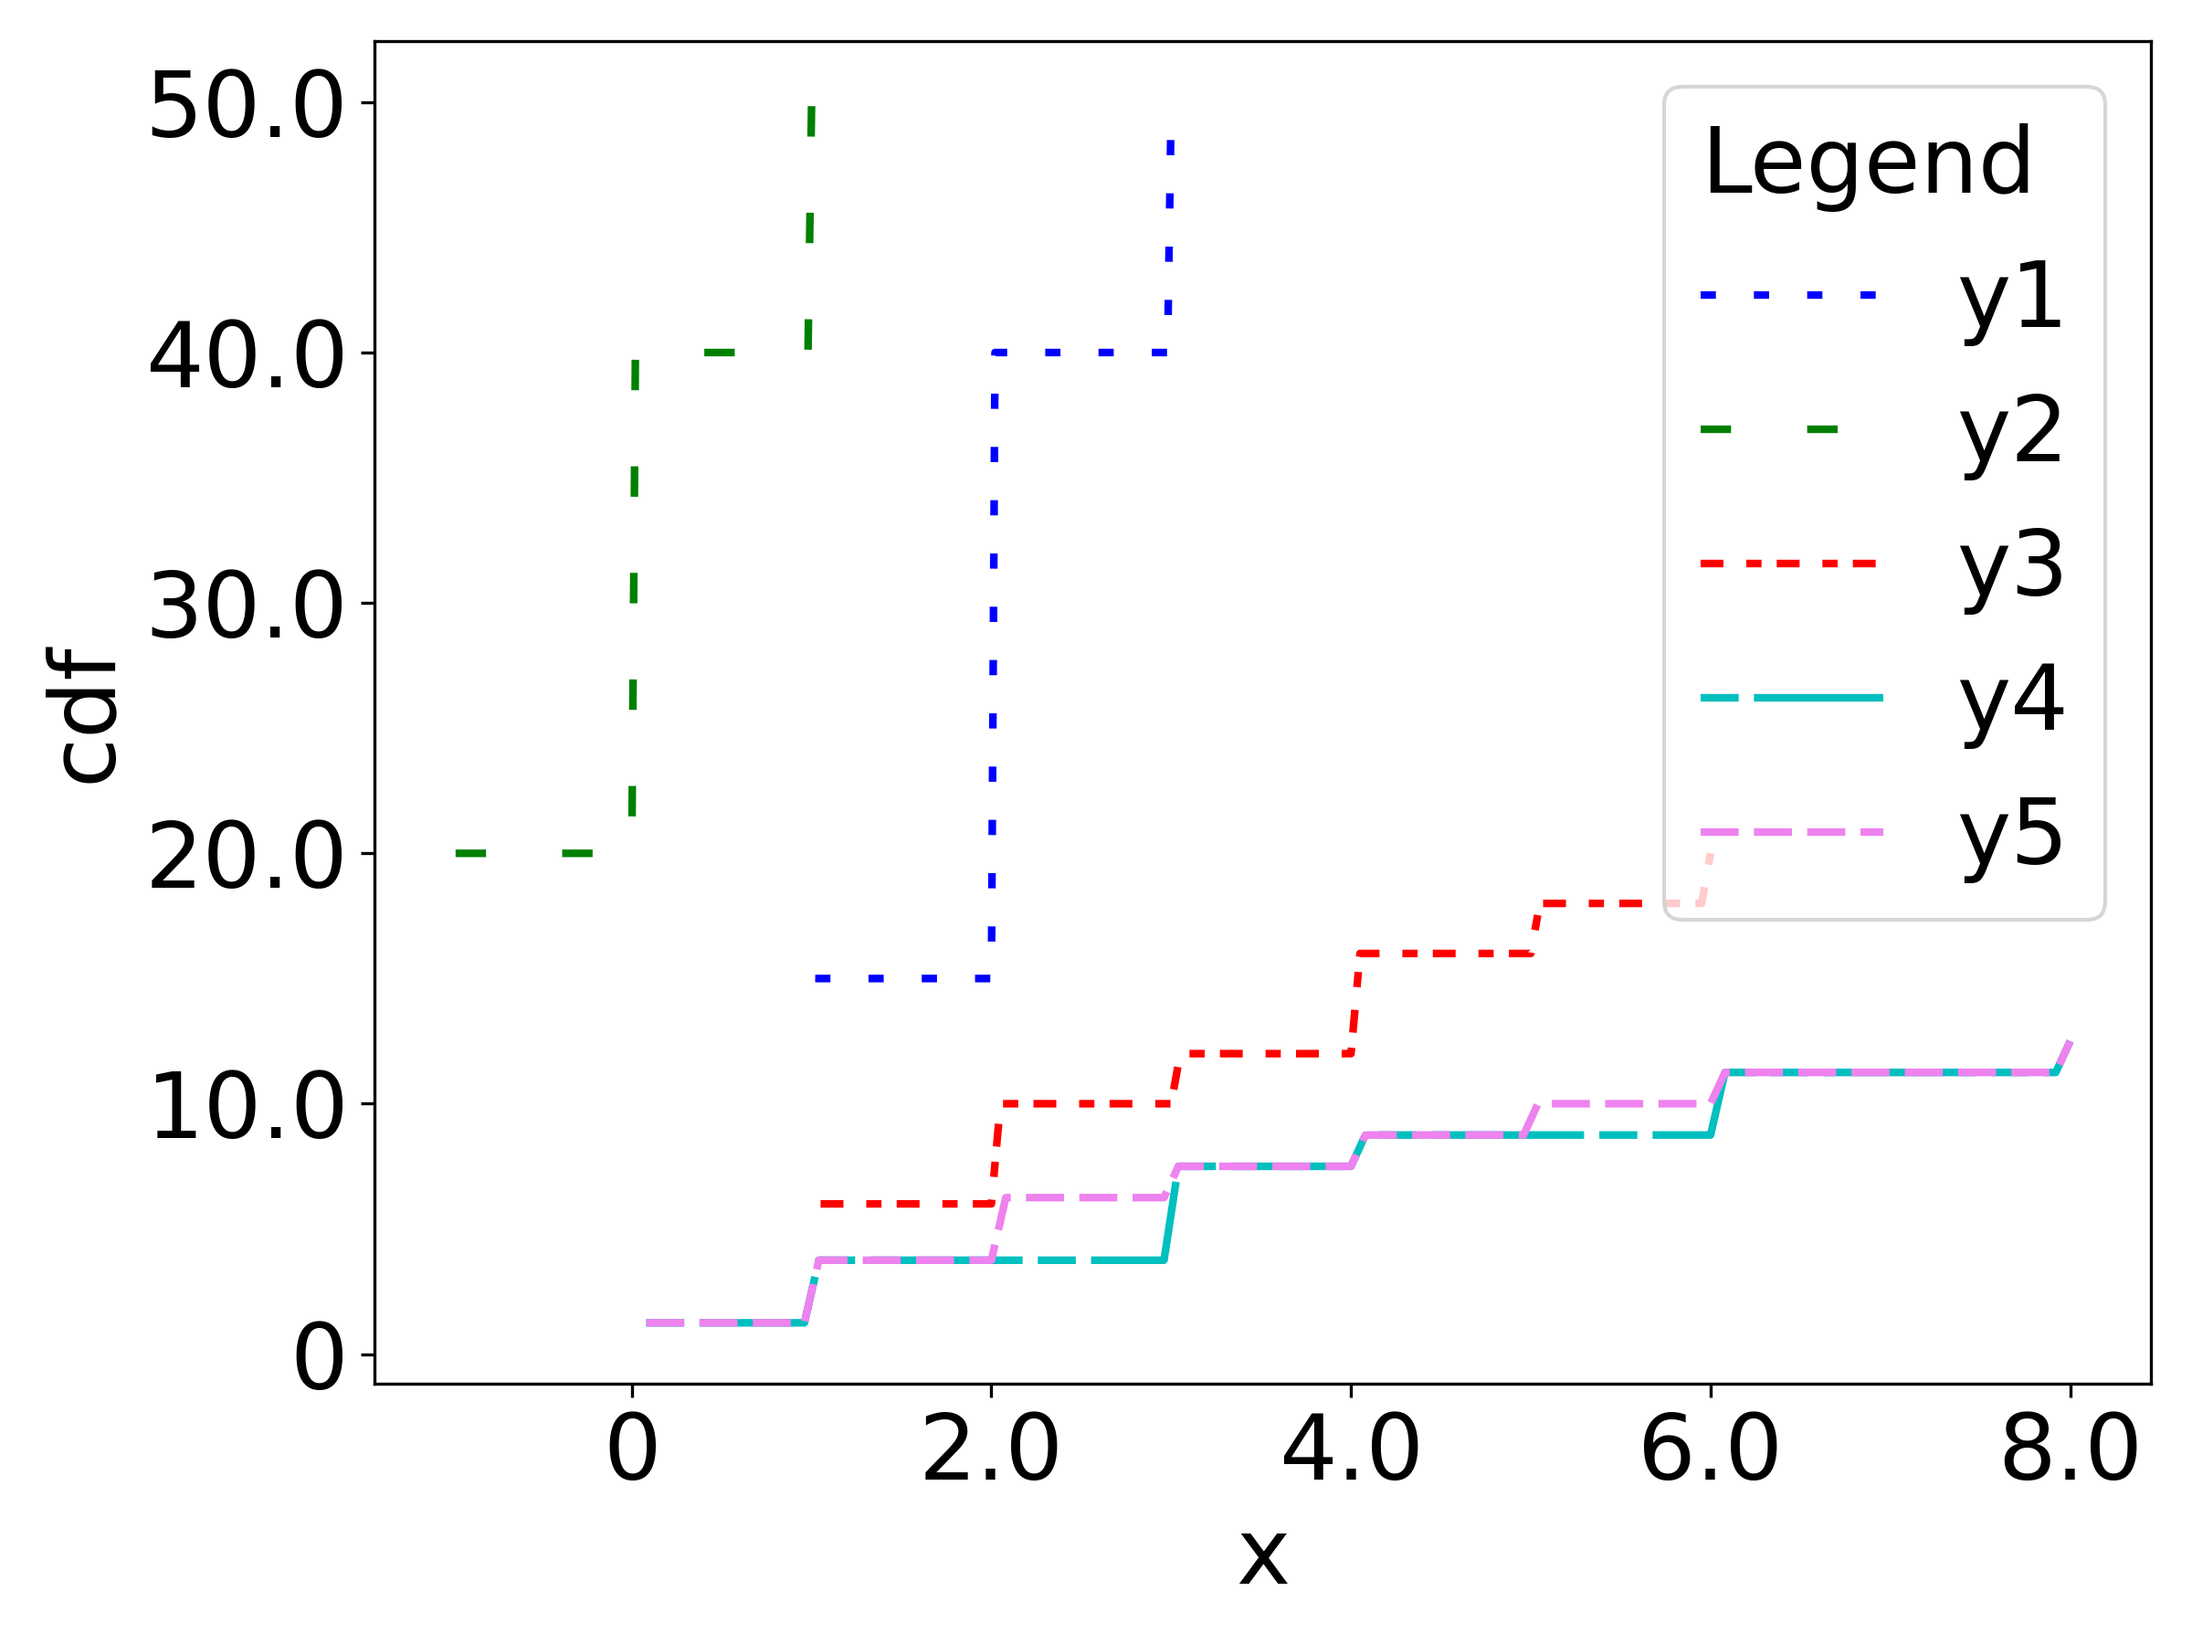
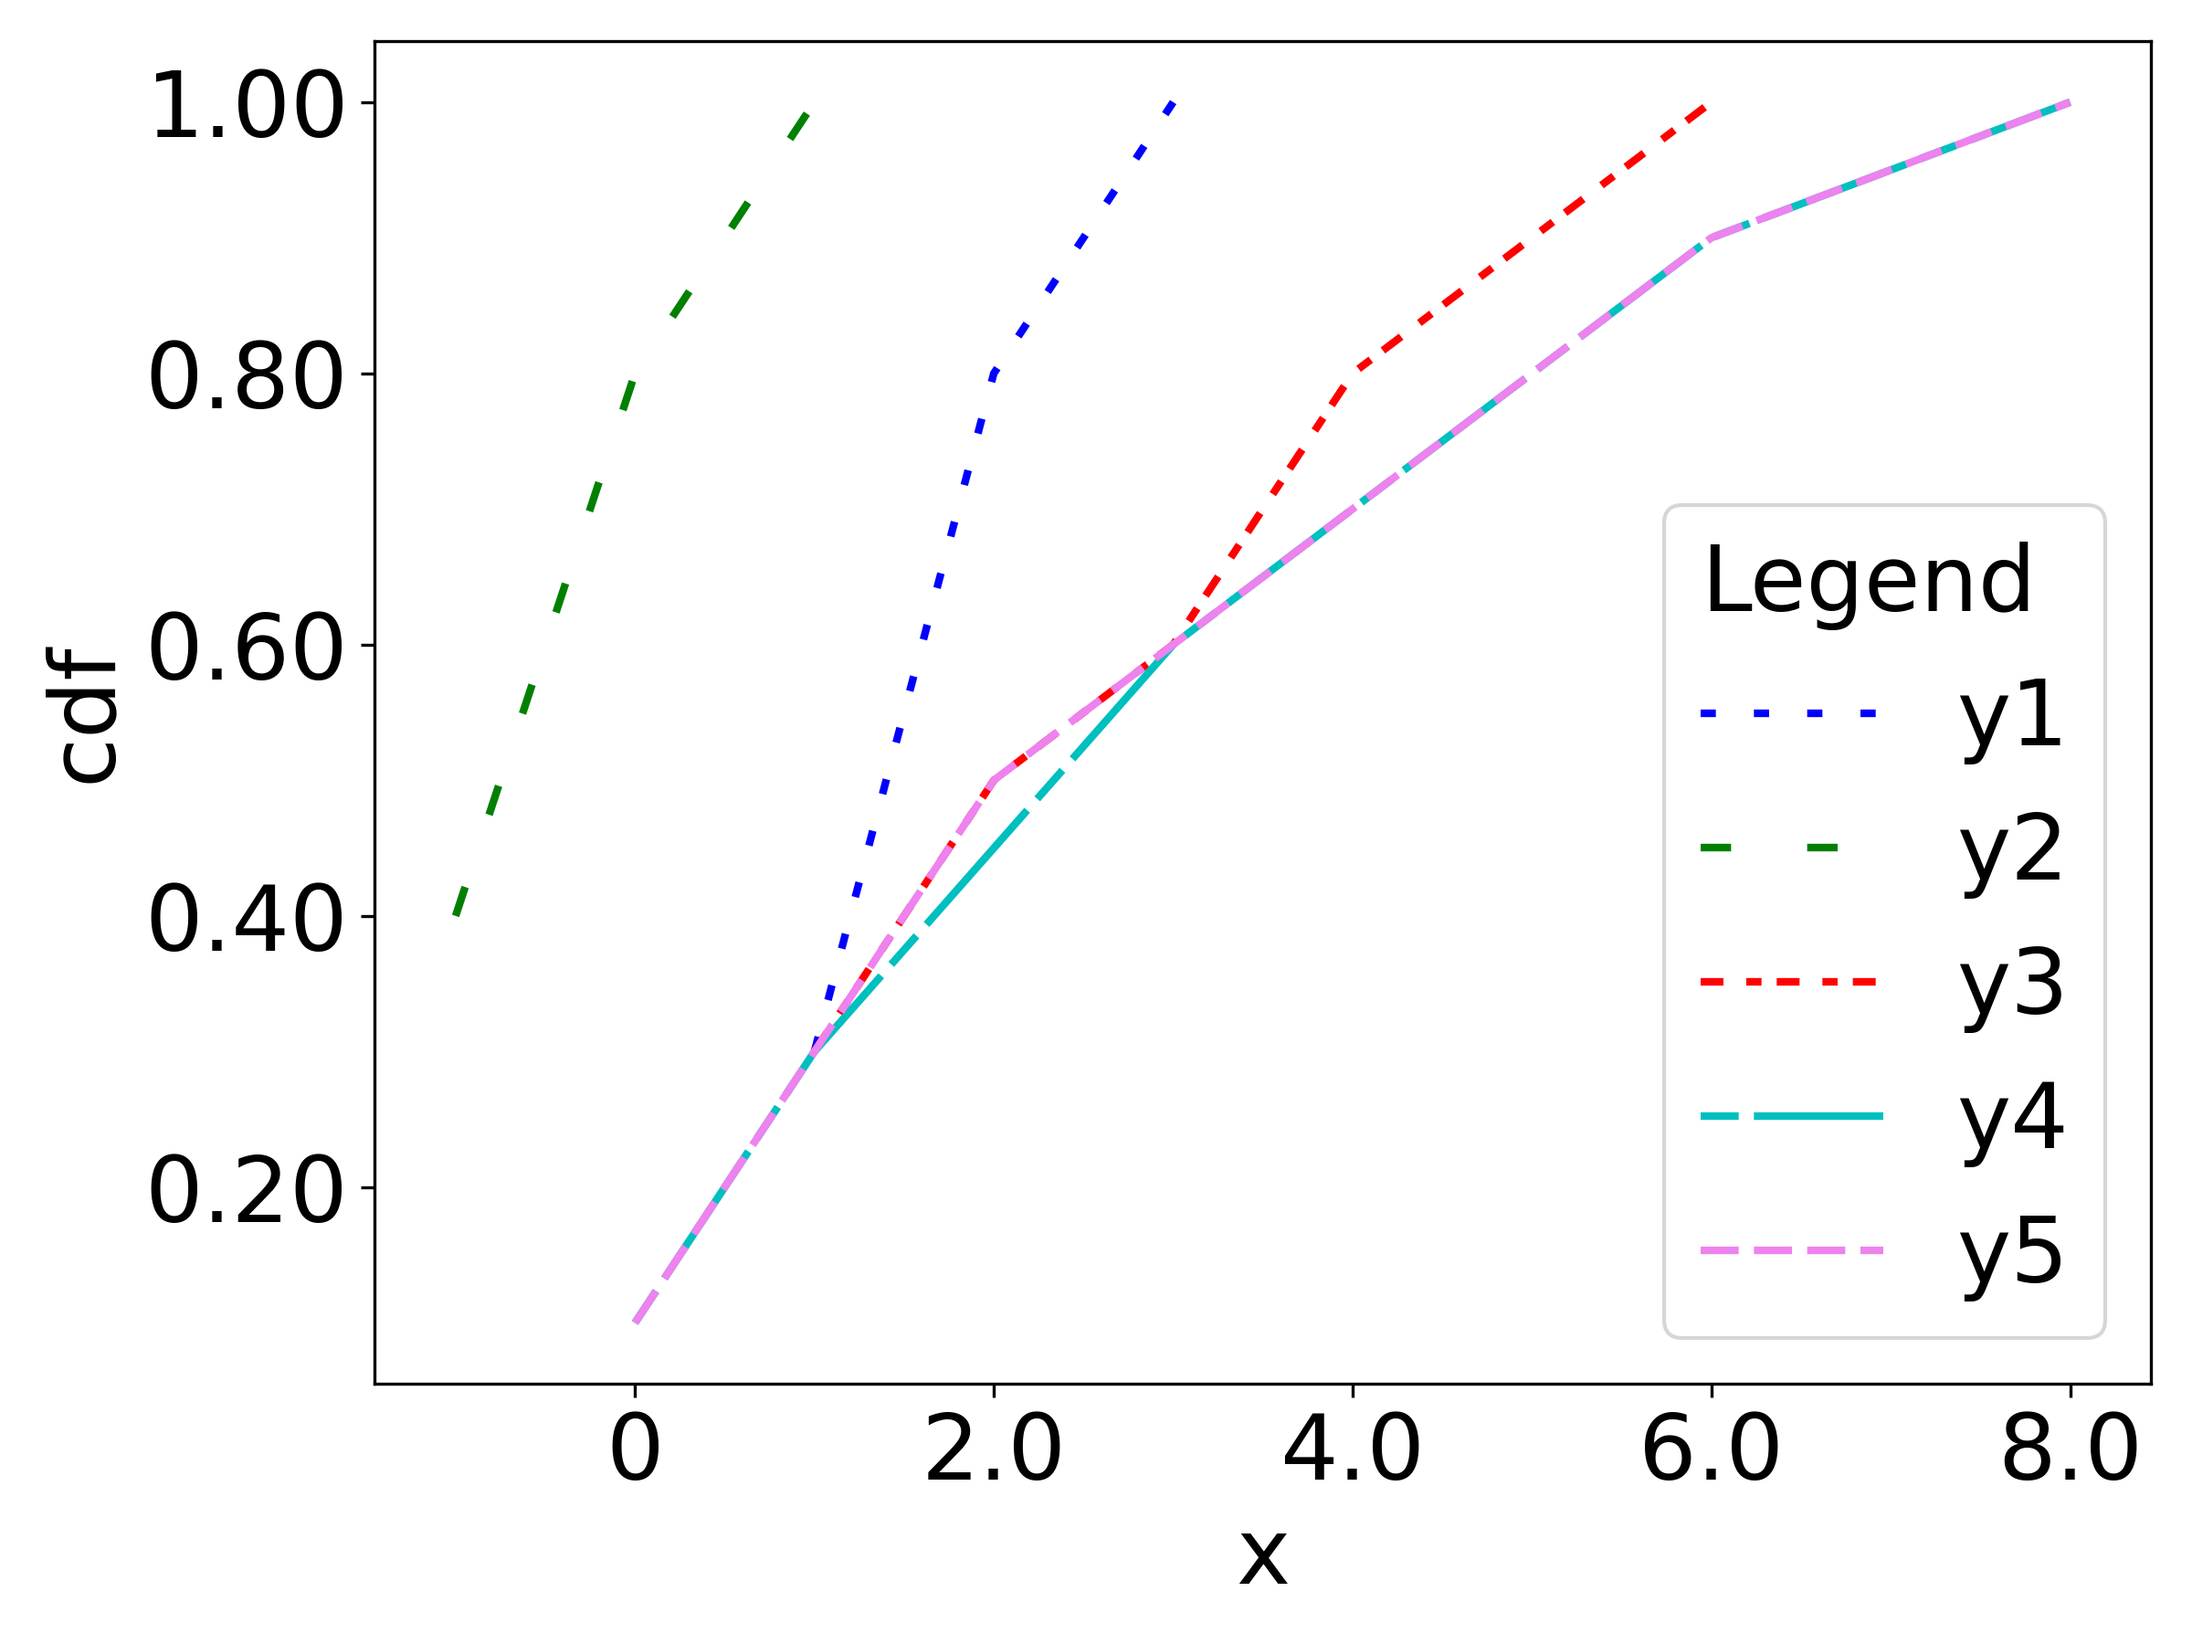
Update cdf_plot xy_tick_ndigits

diff --git a/pyplotter/plot.py b/pyplotter/plot.py
@@ -5,6 +5,7 @@ import numpy as np
 from matplotlib.ticker import FuncFormatter
 from scipy import stats
 from typing import List
+from pyplotter.tick_formatter import CustomFormatter
 
 
 class Pyplot_config:
@@ -149,10 +150,10 @@ class Plotter(Pyplot_config):
         pass
 
     @staticmethod
-    def formatnum(x, pos):
+    def formatnum(x, pos, cmd="%.2f"):
         if x == 0:
             return f'{int(x)}'
-        return "%.2f" % x
+        return cmd % x
 
     @staticmethod
     def cal_cdf(input_data):
@@ -162,7 +163,7 @@ class Plotter(Pyplot_config):
         return {"x": val, "y": fs_rv_dist.cdf(val)}
 
     # 绘制 cdf 图
-    def plot_cdfs(self, x_label="x", y_label="cdf", legend_title="legend", legend_ncol=1, bbox_to_anchor=None,
+    def plot_cdfs(self, x_label="x", y_label="cdf", legend_title="legend", legend_ncol=1, bbox_to_anchor=None, x_tick_ndigits=1, y_tick_ndigits=2,
                   legend_loc="best", cdf_data_list=None, legend_label_list=None, is_marker=False, linewidth=2, alpha=1,
                   save_root="./", filename="demo.png", is_show=False):
         # 画布
@@ -174,10 +175,14 @@ class Plotter(Pyplot_config):
         # 调整 tick 的字体大小
         plt.xticks(fontsize=self.tick_size)
         plt.yticks(fontsize=self.tick_size)
+
         # 让角标变0
-        formatter = FuncFormatter(self.formatnum)
-        ax.xaxis.set_major_formatter(formatter)
-        ax.yaxis.set_major_formatter(formatter)
+        x_formatter = CustomFormatter(ndigits=x_tick_ndigits)
+        y_formatter = CustomFormatter(ndigits=y_tick_ndigits)
+
+        ax.xaxis.set_major_formatter(x_formatter)
+        ax.yaxis.set_major_formatter(y_formatter)
+
         # 计算cdf的值
         for index, (cdf_data, cdf_label) in enumerate(zip(cdf_data_list, legend_label_list)):
             res = self.cal_cdf(cdf_data)
@@ -488,7 +493,7 @@ if __name__ == "__main__":
         filename="plot_lines_demo"
     )
 
-    my_plotter.plot_cdfs_1(
+    my_plotter.plot_cdfs(
         cdf_data_list=[y1,y2,y3,y4,y5],
         legend_label_list=["y1", "y2", "y3", "y4", "y5"],
         legend_loc="best",

diff --git a/pyplotter/demo/formatter.py b/pyplotter/demo/formatter.py
@@ -1,0 +1,32 @@
+import matplotlib.pyplot as plt
+import matplotlib.ticker as ticker
+import numpy as np
+
+# 生成示例数据
+x = np.linspace(-10, 10, 100)
+y = np.sin(x)
+
+# 创建绘图对象和子图对象
+fig, ax = plt.subplots()
+
+
+# 设置x轴刻度格式
+class CustomFormatter(ticker.Formatter):
+    def __call__(self, x, pos=None):
+        if x == 0:
+            return str(int(x))
+        else:
+            return '{:.1f}'.format(x)
+
+
+ax.xaxis.set_major_formatter(CustomFormatter())
+
+# 设置x轴和y轴的原点刻度位置
+ax.spines['bottom'].set_position(('data', 0))
+ax.spines['left'].set_position(('data', 0))
+
+# 绘制图像
+ax.plot(x, y)
+
+# 显示图像
+plt.show()

diff --git a/pyplotter/demo/tick.py b/pyplotter/demo/tick.py
@@ -1,0 +1,23 @@
+import matplotlib.pyplot as plt
+import numpy as np
+
+# 生成示例数据
+x = np.linspace(-10, 10, 100)
+y = np.sin(x)
+
+# 创建绘图对象和子图对象
+fig, ax = plt.subplots()
+
+# 设置x轴和y轴的刻度位置
+ax.xaxis.set_ticks_position('bottom')
+ax.yaxis.set_ticks_position('left')
+
+# 设置x轴和y轴的原点刻度位置
+ax.spines['bottom'].set_position(('data', 0))
+ax.spines['left'].set_position(('data', 0))
+
+# 绘制图像
+ax.plot(x, y)
+
+# 显示图像
+plt.show()

diff --git a/pyplotter/tick_formatter.py b/pyplotter/tick_formatter.py
@@ -1,0 +1,18 @@
+import matplotlib.ticker as ticker
+
+
+# 设置坐标轴刻度格式
+class CustomFormatter(ticker.Formatter):
+
+    def __init__(self, ndigits=1):
+        self.ndigits = ndigits
+
+    def __call__(self, x, pos=None):
+        if x == 0:
+            return str(int(x))
+        else:
+            return '{:.{}f}'.format(x, self.ndigits)
+
+
+if __name__ == '__main__':
+    my_formatter = CustomFormatter(ndigits=2)
